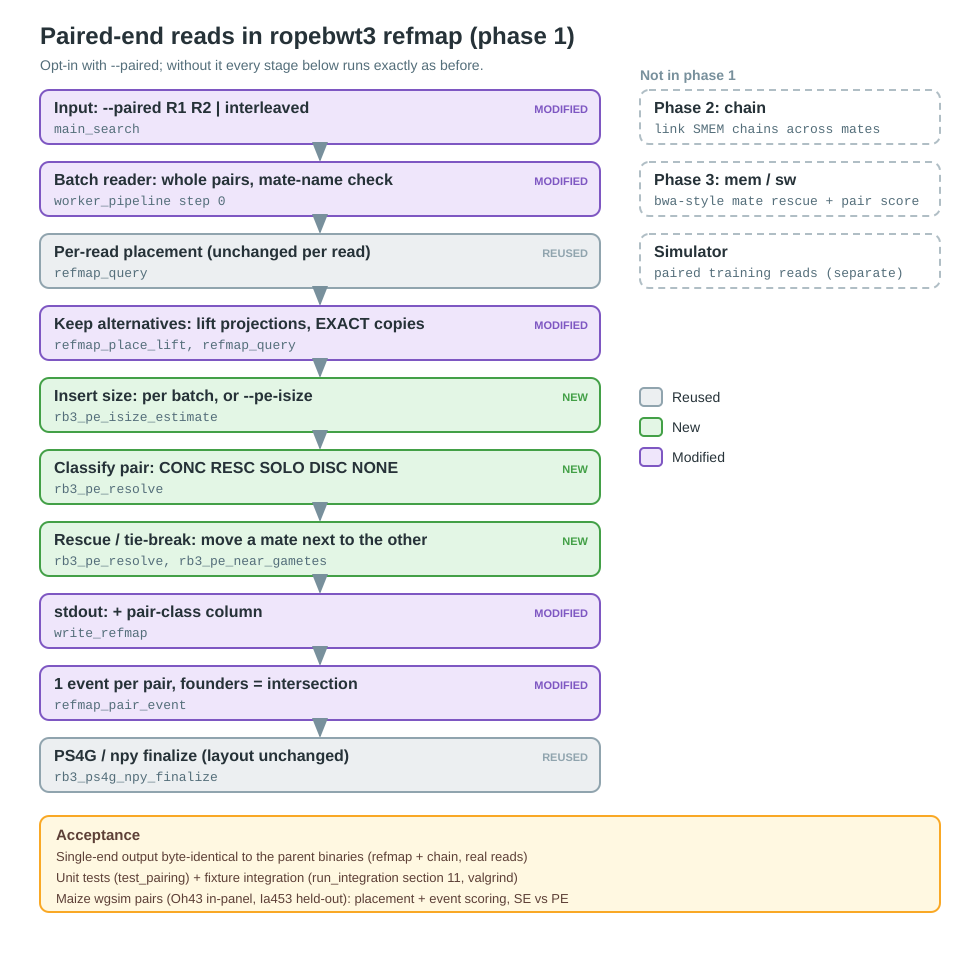
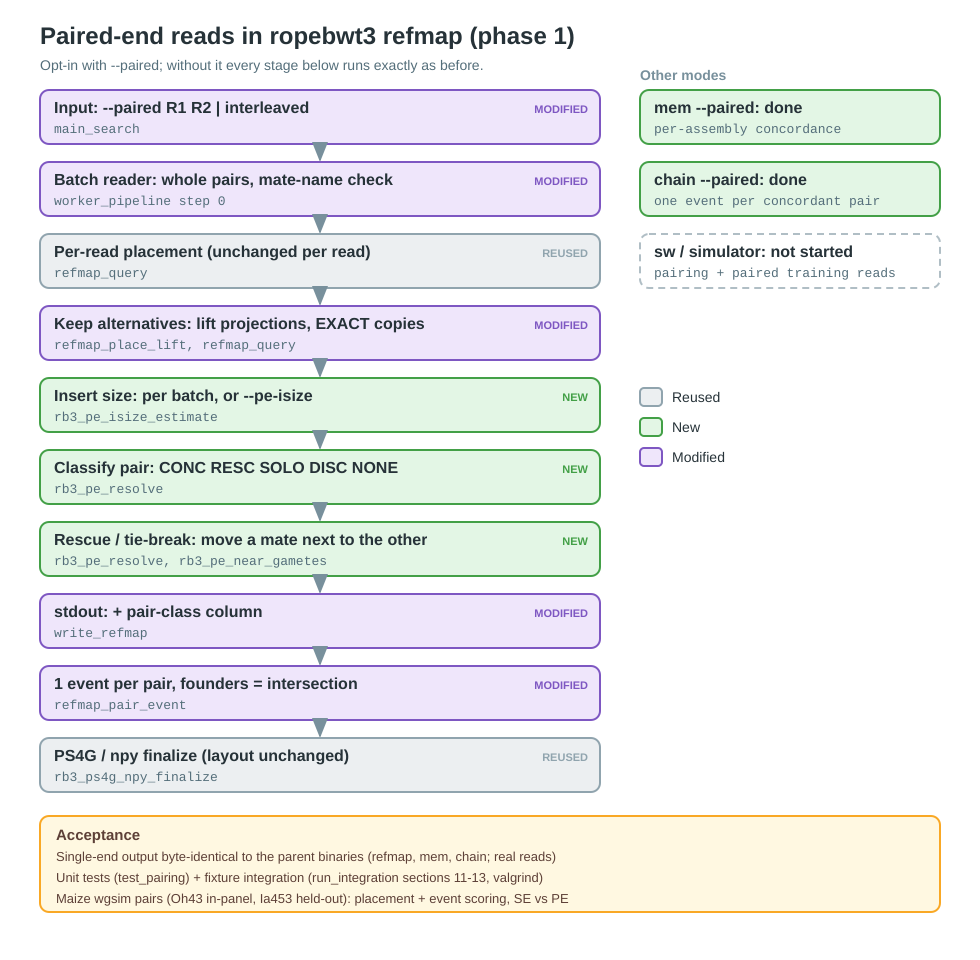
docs: chain --paired README section, results, diagram panel

Changed region(s): [[0.6429, 0.0625, 0.9796, 0.3125], [0.4286, 0.875, 0.551, 0.9375]]

diff --git a/docs/paired-end/plan_diagram.py b/docs/paired-end/plan_diagram.py
@@ -20,9 +20,9 @@ STAGES = [  # (title, detail, kind)
     ("1 event per pair, founders = intersection", "refmap_pair_event", "mod"),
     ("PS4G / npy finalize (layout unchanged)", "rb3_ps4g_npy_finalize", "reused"),
 ]
-LATER = [("Phase 2: chain", "link SMEM chains across mates"),
-         ("Phase 3: mem / sw", "bwa-style mate rescue + pair score"),
-         ("Simulator", "paired training reads (separate)")]
+LATER = [("mem --paired: done", "per-assembly concordance", "new", False),
+         ("chain --paired: done", "one event per concordant pair", "new", False),
+         ("sw / simulator: not started", "pairing + paired training reads", "later", True)]
 
 W, BX, BW, BH, GAP, TOP = 980, 40, 560, 54, 18, 90
 H = TOP + len(STAGES) * (BH + GAP) + 150
@@ -55,10 +55,10 @@ for i, (t, d, k) in enumerate(STAGES):
 
 # later phases
 LX, LW = 640, 300
-svg.append(f'<text x="{LX}" y="{TOP-10}" font-family="Liberation Sans" font-size="14" font-weight="bold" fill="#78909c">Not in phase 1</text>')
-for i, (t, d) in enumerate(LATER):
+svg.append(f'<text x="{LX}" y="{TOP-10}" font-family="Liberation Sans" font-size="14" font-weight="bold" fill="#78909c">Other modes</text>')
+for i, (t, d, k, dash) in enumerate(LATER):
     y = TOP + i * (BH + GAP)
-    svg.append(box(LX, y, LW, BH, "later", t, d, dashed=True))
+    svg.append(box(LX, y, LW, BH, k, t, d, dashed=dash))
 
 # legend
 ly = TOP + 4 * (BH + GAP) + 10
@@ -72,8 +72,8 @@ for i, k in enumerate(["reused", "new", "mod"]):
 gy = TOP + len(STAGES) * (BH + GAP) + 6
 svg.append(f'<rect x="{BX}" y="{gy}" width="{W-2*BX}" height="96" rx="9" fill="#fff8e1" stroke="#f9a825" stroke-width="2"/>')
 for i, line in enumerate(["Acceptance",
-                          "Single-end output byte-identical to the parent binaries (refmap + chain, real reads)",
-                          "Unit tests (test_pairing) + fixture integration (run_integration section 11, valgrind)",
+                          "Single-end output byte-identical to the parent binaries (refmap, mem, chain; real reads)",
+                          "Unit tests (test_pairing) + fixture integration (run_integration sections 11-13, valgrind)",
                           "Maize wgsim pairs (Oh43 in-panel, Ia453 held-out): placement + event scoring, SE vs PE"]):
     bold = 'font-weight="bold" ' if i == 0 else ""
     svg.append(f'<text x="{BX+16}" y="{gy+24+i*21}" font-family="Liberation Sans" font-size="{15 if i == 0 else 13}" '

diff --git a/docs/paired-end/PLAN.md b/docs/paired-end/PLAN.md
@@ -267,9 +267,37 @@ Oh43 results; positions and wrong events are unchanged in every row:
   same contig, which is what excludes TE copies elsewhere.
 - 17%: the intersection legitimately lacks the founder because one mate's set did.
 
+## chain --paired (2026-10-16, commit fb311bf)
+
+**Decisions:**
+- Mate gap ≤ max insert + `--max-intron` (+ `--pe-slack`, 0 for chain; +2 kb per lift-placed mate).
+- One row and one event per CONC/SOLO pair, at the anchor's first segment.
+- Founder set = intersection of the mates' sets; under `--support=best`, of their best sets.
+- DISC mates are emitted single-end.
+- Chain's three row paths go through `chain_put_row`; single-end output is byte-identical on
+  real data (19/19).
+
+**Maize wgsim, 500k pairs** (`scratch/paired_end/chain_fb311bf/`, `chain_pe_eval.sh`).
+Flags: `--lift --lift-local-win=20000 --insertion-rows=ordinary`.
+
+| | Oh43 def SE | Oh43 def PE | Oh43 best SE | Oh43 best PE | Ia453 def SE | Ia453 def PE | Ia453 best SE | Ia453 best PE |
+|---|---|---|---|---|---|---|---|---|
+| fragments with true founder in an event | 98.58 | 98.57 | 98.57 | 98.53 | — | — | — | — |
+| mean founder set | 10.48 | 8.91 | 10.39 | 8.84 | 10.01 | 8.66 | 9.89 | 8.57 |
+| wrong events (≥20 kb / chr) | 21,301 | 18,163 | 21,301 | 18,163 | 25,377 | 21,902 | 25,377 | 21,902 |
+| fragments with any wrong event | 6.39 | 6.39 | 6.39 | 6.39 | 8.45 | 8.44 | 8.45 | 8.44 |
+| wall time (16 threads) | 66 s | 63 s | 96 s | 79 s | 73 s | 71 s | 132 s | 104 s |
+
+**Reading the table:**
+- Recall is kept (≤0.04 pp).
+- Founder sets are 14–15% smaller, and there are about 14% fewer wrong events.
+- The fragment-level wrong rate is unchanged: chain has no rescue step, so a misplaced
+  fragment stays misplaced. Refmap-style rescue is the next lever if that matters.
+- 22% of pairs are NONE: neither mate chains, as in single-end mode.
+
 ## Next phases
 
-- **Phase 2, chain:**
+- **Phase 2, chain:** done (see above). Originally planned:
   - Link SMEM chains across mates: a mate's chain that is colinear with the other's within the
     insert counts as one fragment.
   - One event per pair, with the founder set = intersection.

diff --git a/README.md b/README.md
@@ -449,6 +449,35 @@ Options:
   Measured as a no-op here — SMEM search already isolates the informative core —
   and kept only because it may matter for other read types.
 
+#### Paired-end `chain` (`--paired`)
+
+`chain --paired` takes the same inputs as `refmap --paired` (R1 R2, or one interleaved file).
+Each mate is chained as in single-end mode, then the pair is classified:
+
+* **`CONC`.** Both mates have rows on the same contig, on opposite strands (when both are
+  reference chains), and the gap between their spans is at most max insert + `--max-intron` +
+  `--pe-slack`. `--pe-slack` defaults to 0 here, because chain positions are exact. A
+  lift-placed (PAV-path) mate gets 2 kb extra, since its position is a projection. The gap is
+  measured between the mates' spans, so a spliced mate's own intron doesn't count. The
+  `--max-intron` allowance lets RNAseq mates that straddle an intron still pair.
+* **`SOLO`.** Only one mate has rows.
+* **`DISC`.** Both mates have rows but no concordant placement. Each mate is emitted as in
+  single-end mode.
+
+`CONC` and `SOLO` pairs give **one row and one PS4G/npy event**, named after the fragment
+(`/1` and `/2` dropped), at the anchor mate's first segment. The anchor is a reference chain over
+a lift row, then the mate with more chained bases. The founder set is the intersection of the
+mates' sets, falling back to the anchor's set if they share none. With `--support=best` it is the
+intersection of the two mates' best sets. `--dup-count` takes `;x=N` from mate 1's name, so name a
+collapsed pair `<frag>;x=N/1` and `<frag>;x=N/2`. Every row gets a trailing pair-class column,
+after the `pav:` rows' 5th column. The insert size is estimated from pairs whose mates are both
+single-segment reference chains, or set with `--pe-isize`.
+
+```sh
+ropebwt3 chain --ref-prefix=B73 --lift=pan.lift --paired --support=best --ps4g=pe.ps4g \
+  pan.fmd R1.fq R2.fq > pe.chain.tsv
+```
+
 ### <a name="deprecated"></a>Deprecated
 
 These paths are superseded and will be removed. They are documented here only so
